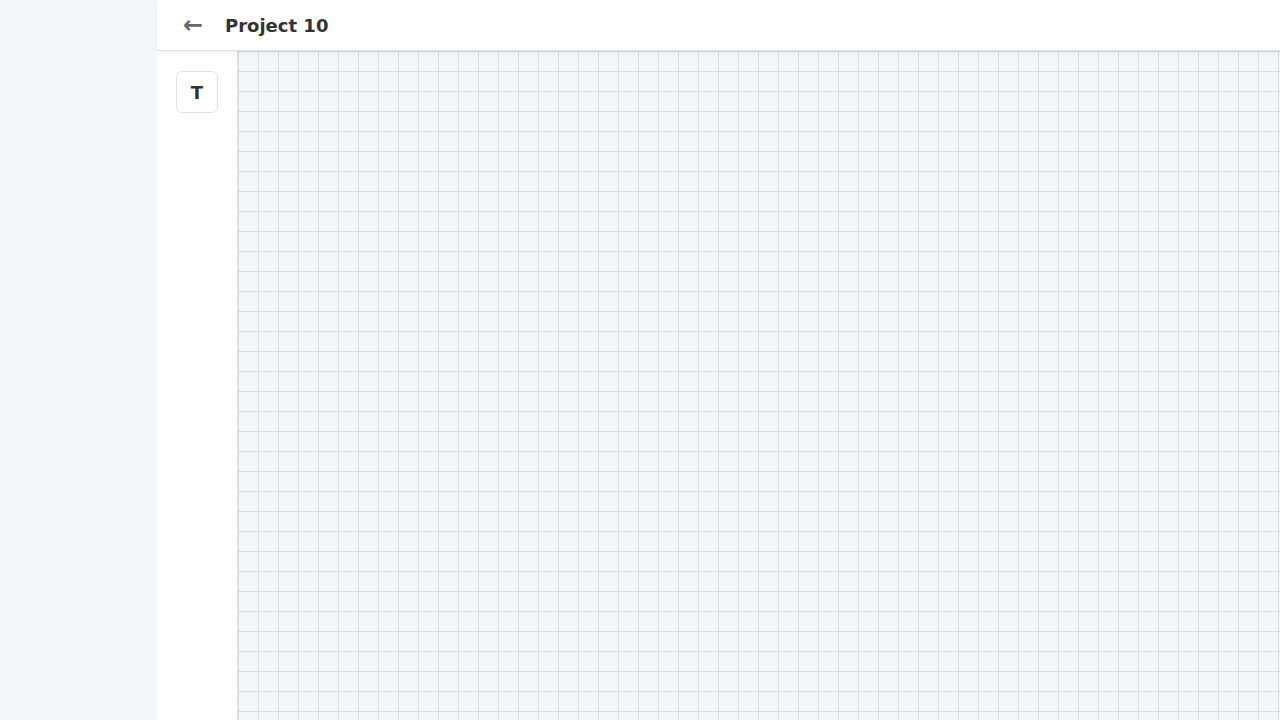
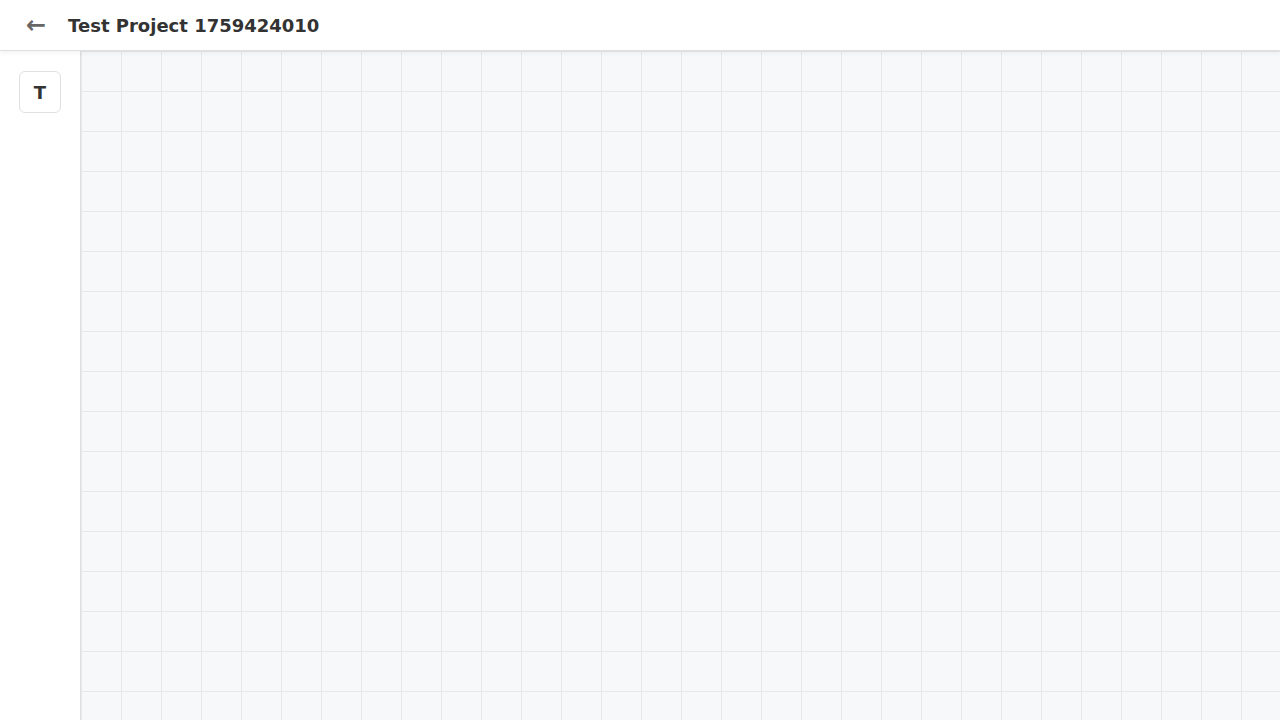
feat: Implement full-screen canvas, UI redesign, and new project modal
This commit introduces a complete redesign of the application's UI and adds several new features, including a full-screen canvas view, a collapsible sidebar, a new project modal, and drag-and-drop functionality.

Key changes:
- **Full-Screen Canvas:** The canvas view now opens in full-screen mode, hiding the main sidebar to provide a more immersive workspace. The canvas background and grid have been restyled for a more discreet and professional look.
- **Collapsible Sidebar:** A new collapsible sidebar has been added for navigation, with a toggle button to expand and collapse the menu.
- **New Project Modal:** Project creation is now handled through a modal, triggered from the sidebar.
- **Drag-and-Drop Canvas:** The canvas uses `react-dnd` to allow users to drag text blocks from the toolbar and position them on the canvas.
- **State Management:** The application's state management has been refactored for better data flow and organization.
- **Jest Configuration:** The Jest configuration in `package.json` has been updated to correctly handle ES modules from the `react-dnd` library.

Changed region(s): [[0.1875, 0.9778, 1.0, 1.0], [0.0625, 0.0, 0.25, 0.0917]]

diff --git a/src/components/Canvas.js b/src/components/Canvas.js
@@ -1,7 +1,8 @@
-import React, { useState, useRef, useCallback } from 'react';
+import React, { useState, useRef, useCallback, useEffect } from 'react';
 import { useParams, useNavigate } from 'react-router-dom';
 import { useDrag, useDrop } from 'react-dnd';
 import { ItemTypes } from './ItemTypes';
+import { supabase } from '../supabaseClient';
 import './Canvas.css';
 
 // The draggable tool in the toolbar
@@ -50,6 +51,28 @@ const Canvas = () => {
   const { projectId } = useParams();
   const navigate = useNavigate();
   const [droppedItems, setDroppedItems] = useState({});
+  const [projectName, setProjectName] = useState('');
+  const [loading, setLoading] = useState(true);
+
+  useEffect(() => {
+    const fetchProject = async () => {
+      const { data, error } = await supabase
+        .from('projects')
+        .select('name')
+        .eq('id', projectId)
+        .single();
+
+      if (error) {
+        console.error('Error fetching project:', error);
+        setProjectName('Project Not Found');
+      } else if (data) {
+        setProjectName(data.name);
+      }
+      setLoading(false);
+    };
+
+    fetchProject();
+  }, [projectId]);
 
   const moveItem = useCallback((id, left, top) => {
     setDroppedItems(prevItems => {
@@ -66,6 +89,7 @@ const Canvas = () => {
     accept: ItemTypes.TEXT,
     drop: (item, monitor) => {
       const id = item.id;
+      // If the item has an ID, it's an existing item being moved.
       if (id) {
           const delta = monitor.getDifferenceFromInitialOffset();
           const left = Math.round(item.left + delta.x);
@@ -74,6 +98,7 @@ const Canvas = () => {
           return undefined;
       }
 
+      // If no ID, it's a new item from the toolbar.
       if (canvasRef.current) {
         const canvasRect = canvasRef.current.getBoundingClientRect();
         const clientOffset = monitor.getClientOffset();
@@ -90,13 +115,17 @@ const Canvas = () => {
     },
   }), [moveItem]);
 
+  if (loading) {
+    return <div>Loading...</div>;
+  }
+
   return (
     <div className="canvas-container">
         <header className="canvas-header">
             <button onClick={() => navigate('/')} className="back-button">
                 &larr;
             </button>
-            <h1>Project {projectId}</h1>
+            <h1>{projectName}</h1>
         </header>
         <div className="canvas-body">
             <div className="canvas-toolbar">
